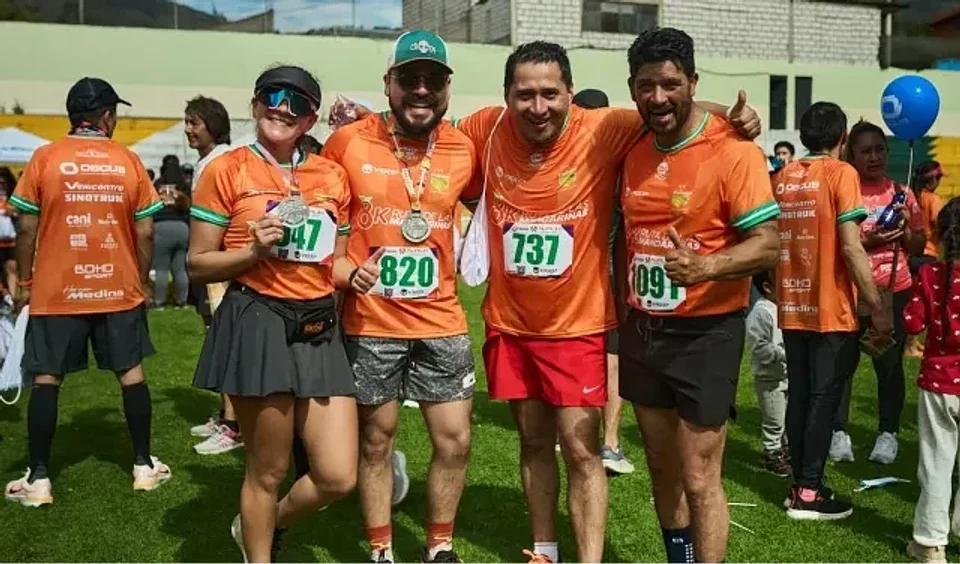
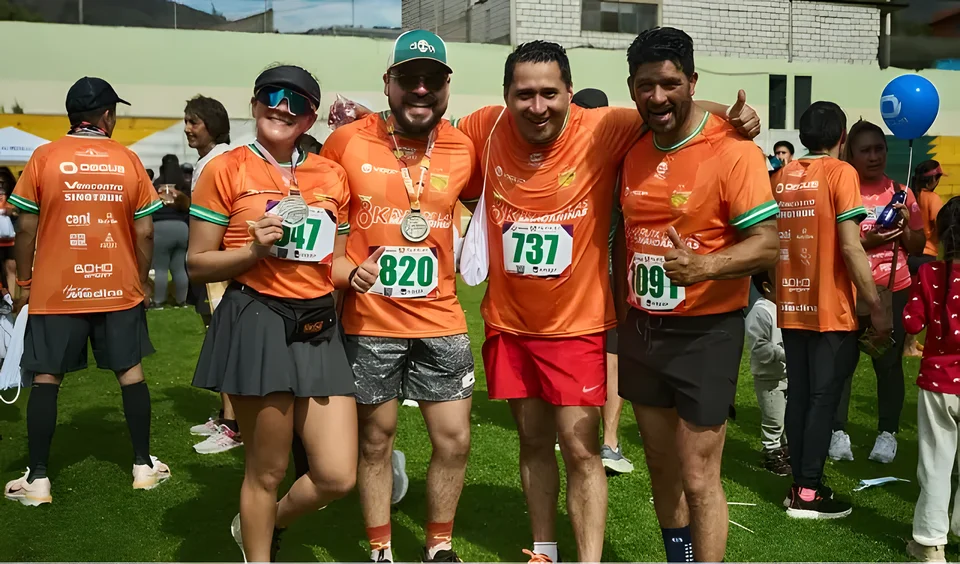
galeria en nitidez real: las 24 fotos reprocesadas con Real-ESRGAN x4
Se probo primero la mejora generativa (gpt-image-1 con input_fidelity
high) y se DESCARTO con evidencia: repintaba caras, ropa y texto de los
ganadores reales. Real-ESRGAN si preserva identidad — misma gente,
mismos dorsales, mismos textos — y a 960px de uso la mejora de nitidez
es clara (verificado con comparaciones lado a lado y captura en retina).
Ademas: mas aire sobre el titular de la galeria.

diff --git a/app/galeria/page.tsx b/app/galeria/page.tsx
@@ -23,7 +23,7 @@ const FOTOS = Array.from({ length: 24 }, (_, i) => {
 
 export default function GaleriaPage() {
   return (
-    <section className="w-full bg-[#140309] px-4 pb-24 sm:px-6 sm:pb-16 lg:px-8">
+    <section className="w-full bg-[#140309] px-4 pt-8 pb-24 sm:px-6 sm:pt-14 sm:pb-16 lg:px-8">
       <div className="mx-auto w-full max-w-7xl">
         {/* Cabecera editorial en dos columnas: el titular manda a la
             izquierda; la descripción y el conteo equilibran la derecha. */}
